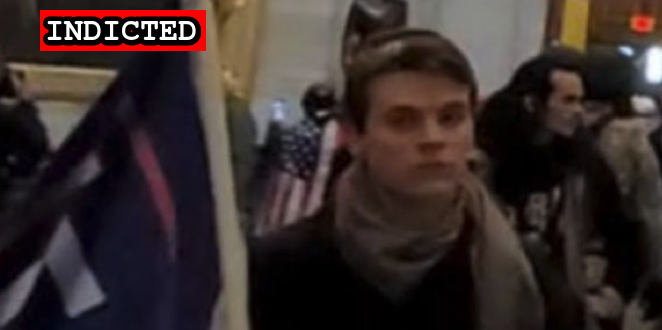
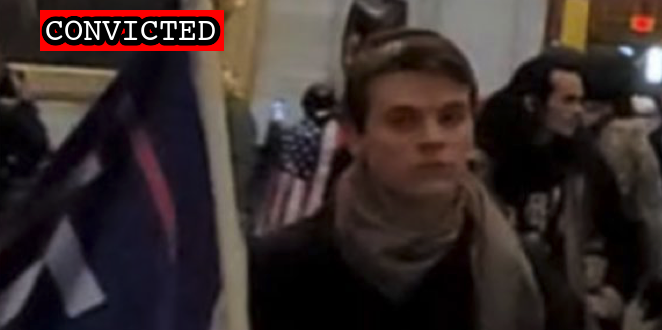
Matthew Wood convictions

Changed region(s): [[0.0604, 0.0303, 0.3625, 0.1515]]

diff --git a/docs/_suspects/matthew-wood.md b/docs/_suspects/matthew-wood.md
@@ -4,16 +4,18 @@ lastName: Wood
 hashtag: LongScarfBoy
 aka:
 residence: North Carolina
-status: Indicted
+status: Convicted
 date: 2021-03-03
 charged: 2021-03-03
 indicted: 2021-03-17
-convicted:
+convicted: 2022-05-27
+acquitted:
 sentenced:
 dismissed:
 deceased:
 plea_hearing: 2022-05-27
-sentencing:
+trial_date:
+sentencing: 2022-09-23
 age: 23
 occupation:
 affiliations:
@@ -34,6 +36,30 @@ published: true
 caseNumber: 1:21-cr-223
 videos:
 charges:
+  - code: 18 USC § 1512(c)(2)
+    title: Obstruction of an Official Proceeding
+    url: https://www.law.cornell.edu/uscode/text/18/1512
+    felony: true
+  - code: 18 USC § 1752(a)(1)
+    title: Entering a restricted building or grounds
+    url: https://www.law.cornell.edu/uscode/text/18/1752
+    felony: false
+  - code: 18 USC § 1752(a)(2)
+    title: Disorderly and disruptive conduct in a restricted building or grounds
+    url: https://www.law.cornell.edu/uscode/text/18/1752
+    felony: false
+  - code: 18 USC § 5104(e)(2)(C)
+    title: Entering and Remaining in Certain Rooms in the Capitol Building
+    url: https://www.law.cornell.edu/uscode/text/40/5104
+    felony: false
+  - code: 40 USC § 5104(e)(2)(D)
+    title: Disorderly Conduct in a Capitol Building
+    url: https://www.law.cornell.edu/uscode/text/40/5104
+    felony: false
+  - code: 40 USC § 5104(e)(2)(G)
+    title: Parading, demonstrating or picketing in a Capitol building
+    url: https://www.law.cornell.edu/uscode/text/40/5104
+    felony: false
 sentence:
 ---
 
